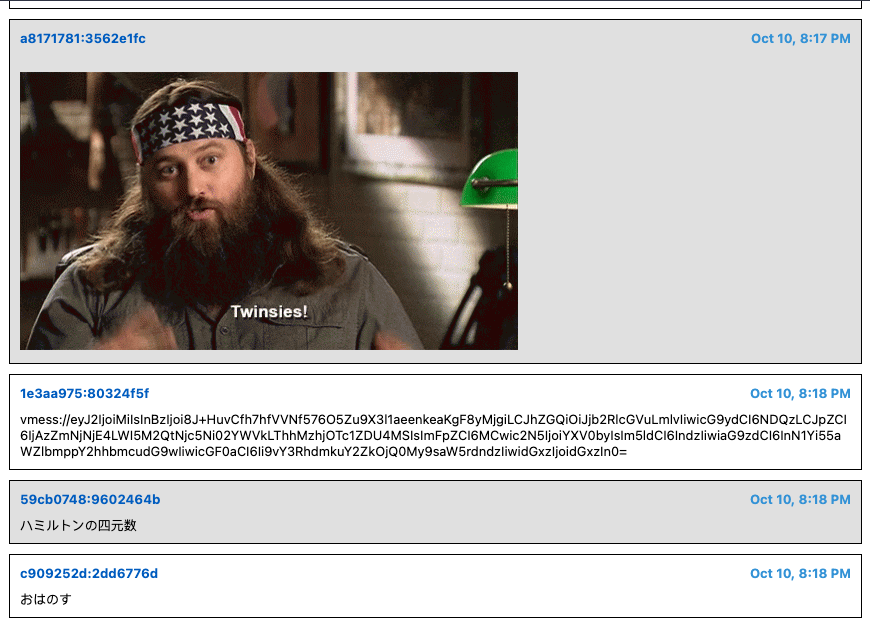
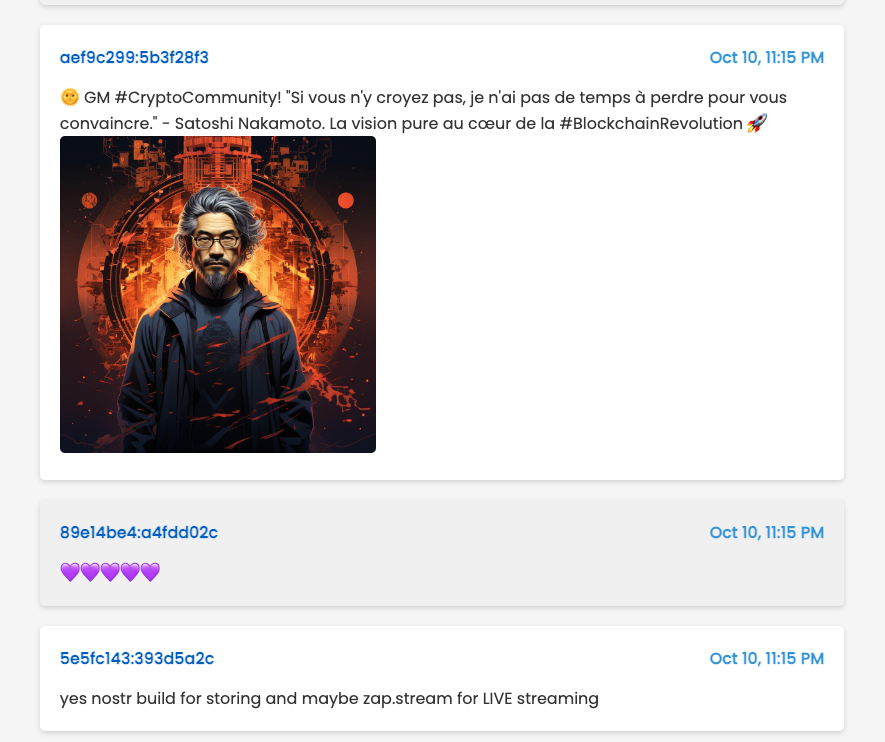
Stupid sexy CSS

diff --git a/index.html b/index.html
@@ -4,6 +4,7 @@
         <title>meepmeep</title>
[1 lines of base64/hex data omitted]
         <script src="https://cdnjs.cloudflare.com/ajax/libs/dompurify/2.3.3/purify.min.js"></script>
+        <link rel="stylesheet" href="https://fonts.googleapis.com/css2?family=Poppins:wght@400;500&display=swap">
         <style>
             * {
                 box-sizing: border-box;
@@ -13,14 +14,16 @@
                 height: 100%;
                 margin: 0;
                 padding: 0;
-                font-size: 0.9em;
-                font-family: -apple-system, BlinkMacSystemFont, 'Segoe UI', Roboto, Helvetica, Arial, sans-serif, 'Apple Color Emoji', 'Segoe UI Emoji', 'Segoe UI Symbol';
+                font-size: 1em;
+                font-family: 'Poppins', sans-serif;
+                background: #f5f5f5;
             }
 
             #title {
                 text-align: center;
-                font-size: 2em;
-                margin: 10px;
+                font-size: 2.5em;
+                margin: 20px;
+                color: #555;
             }
 
             #notes {
@@ -30,25 +33,28 @@
                 width: 100%;
                 height: 100%;
                 overflow-y: auto;
-                padding: 10px;
+                padding: 20px;
                 display: flex;
-                flex-direction: column;
+                flex-direction: column-reverse;
+                align-items: center;
             }
 
             .note {
-                border: 1px solid black;
-                margin-bottom: 10px;
-                padding: 10px;
+                border-radius: 5px;
+                box-shadow: 0 2px 5px rgba(0, 0, 0, 0.15);
+                margin-bottom: 20px;
+                padding: 20px;
                 background-color: white;
                 word-wrap: break-word;
+                width: 90%;
             }
 
             .note-even {
-                background-color: #e0e0e0;
+                background-color: #f0f0f0;
             }
 
             .note-odd {
-                background-color: white;
+                background-color: #ffffff;
             }
 
             .note-header {
@@ -56,6 +62,7 @@
                 font-weight: bold;
                 display: flex;
                 justify-content: space-between;
+                margin-bottom: 15px;
             }
 
             .date {
@@ -66,11 +73,14 @@
             
             .note-content {
                 margin-top: 10px;
+                color: #333;
+                line-height: 1.6;
             }
 
             .note-image {
-                max-width: 80%; /* This is to ensure the image is not larger than its container */
+                max-width: 100%; /* This is to ensure the image is not larger than its container */
                 height: auto; /* Maintain aspect ratio */
+                border-radius: 5px;
             }
         </style>
     </head>
